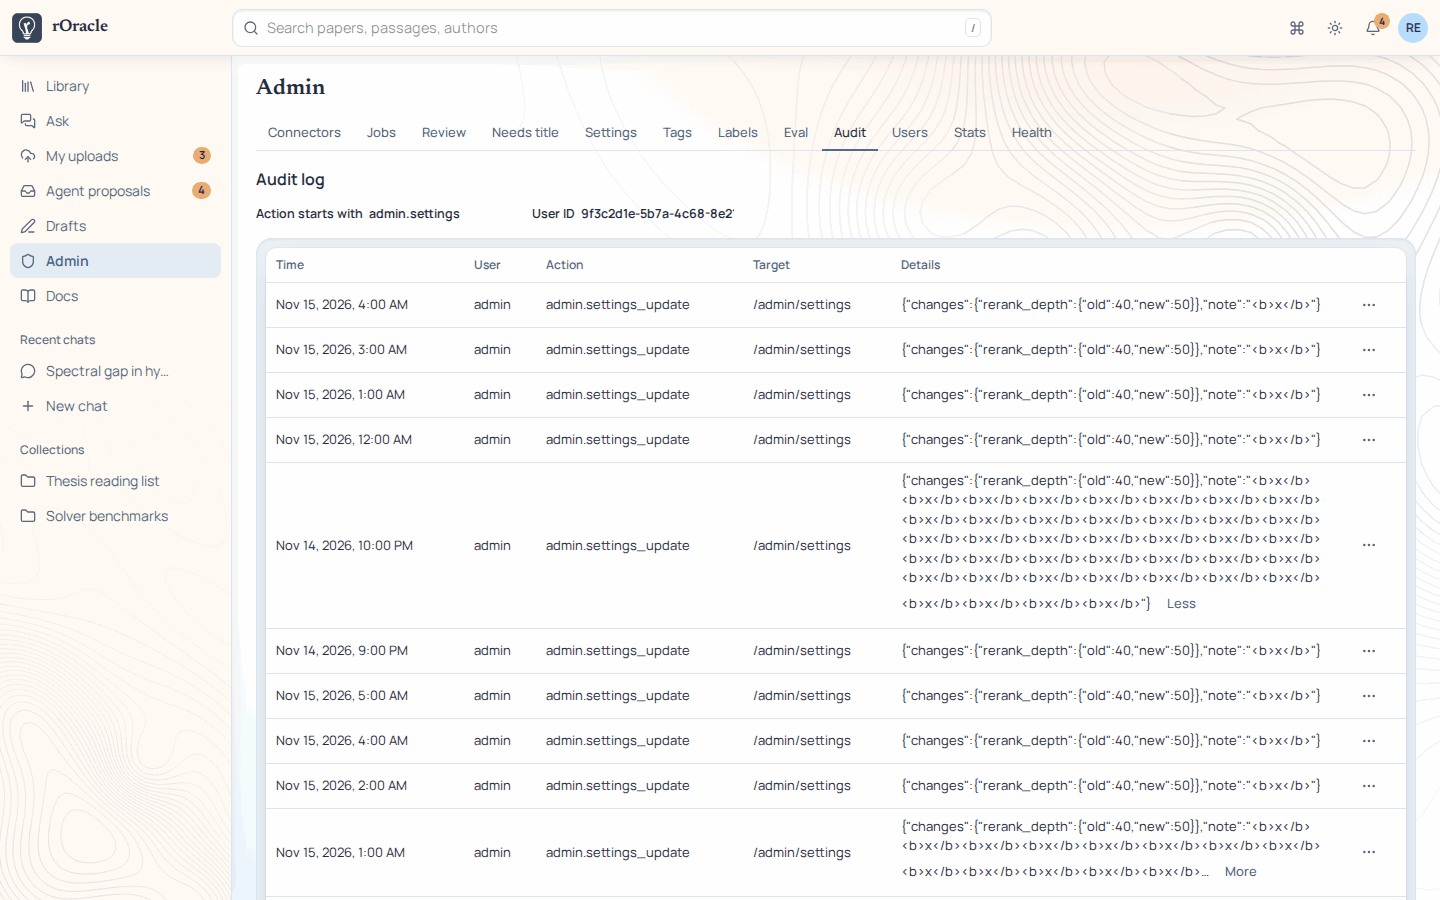
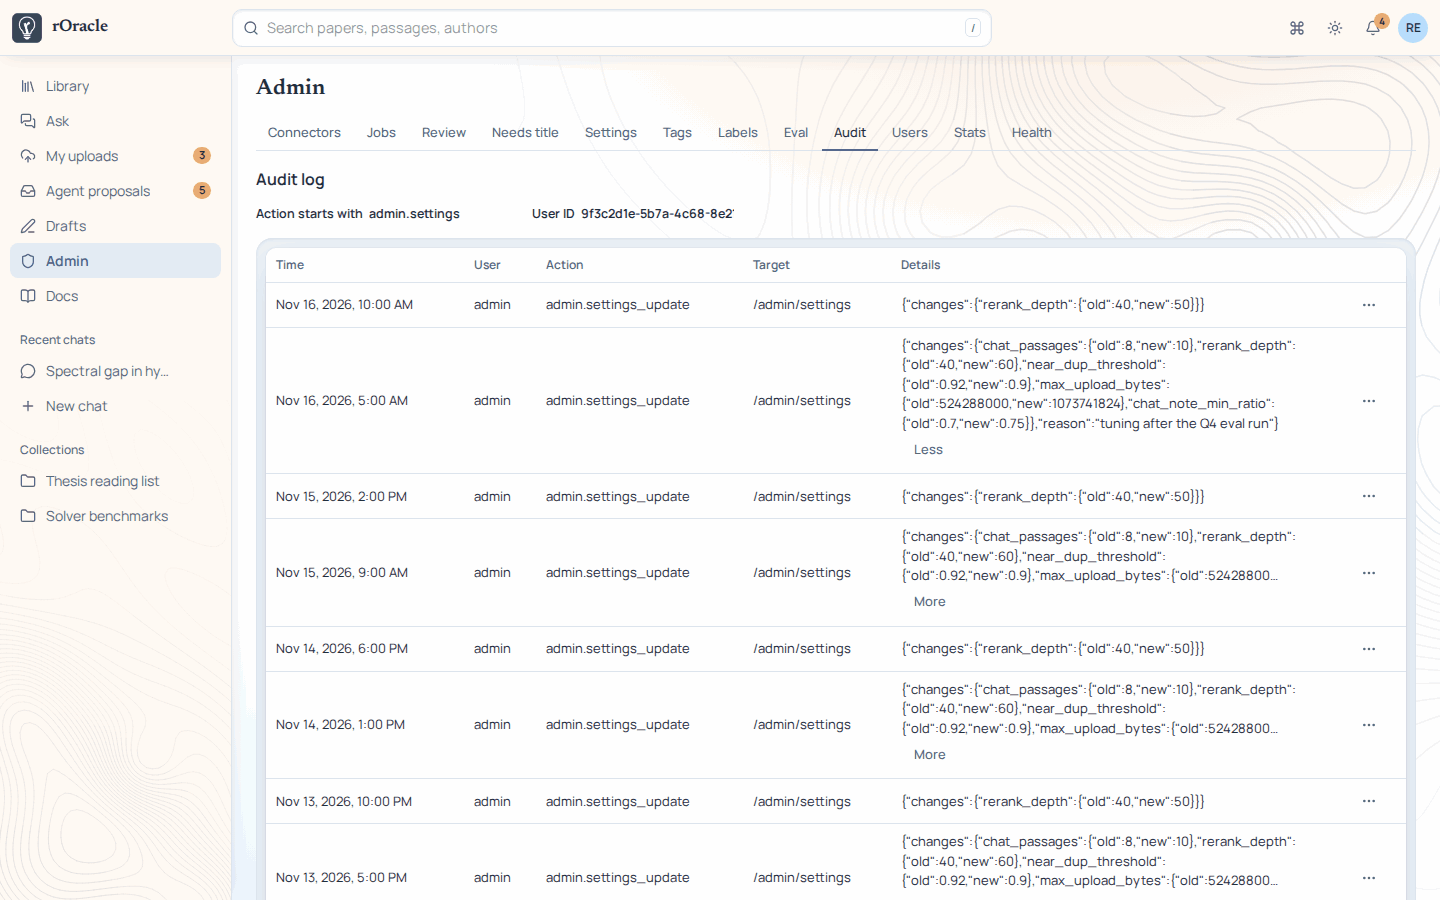
docs(screens): fix alt texts and audit, limits and form screenshots

diff --git a/frontend/src/mocks/docsFixtures.ts b/frontend/src/mocks/docsFixtures.ts
@@ -1,7 +1,7 @@
 // Extra demo rows for the documentation screenshots (scripts/docs/screenshots). Browser mock mode only:
 // mocks/browser.ts calls seedDocsFixtures() before the worker starts; the vitest server never does.
 import type { HandoffManifest } from "@/api/agents";
-import { dataOf } from "./adminData";
+import { dataOf, ENV } from "./adminData";
 import { tokens } from "./agents";
 import { all as proposals } from "./proposals";
 import { DOCS } from "./docs";
@@ -23,8 +23,19 @@ function handoff(code: string, title: string, o: Partial<HandoffManifest> = {}, 
 const ADMIN_UUID = "9f3c2d1e-5b7a-4c68-8e21-0a4d6b7c8e90";
 
 export function seedDocsFixtures() {
-  // the audit filter only accepts a UUID, the stock rows use "u-admin"
-  for (const a of dataOf().audit) a.user_id = ADMIN_UUID;
+  // the audit filter only accepts a UUID (stock rows use "u-admin"); also realistic, newest-first rows and the real rate-limit default
+  const rows: [string, string, unknown][] = [
+    ["admin.settings_update", "/admin/settings", { changes: { rerank_depth: { old: 40, new: 50 } } }],
+    ["admin.settings_update", "/admin/settings", { changes: { chat_passages: { old: 8, new: 10 }, rerank_depth: { old: 40, new: 60 }, near_dup_threshold: { old: 0.92, new: 0.9 }, max_upload_bytes: { old: 524288000, new: 1073741824 }, chat_note_min_ratio: { old: 0.7, new: 0.75 } }, reason: "tuning after the Q4 eval run" }],
+    ["admin.tags_merge", "pde", { merged: ["partial-differential-equations"], documents: 9 }],
+    ["admin.label_update", "Confidential", { changes: { block_export: { old: false, new: true } } }],
+  ];
+  dataOf().audit.forEach((a, i) => {
+    const [action, target, detail] = rows[i % rows.length];
+    // newest first: ids already fall with i, so the times must too
+    Object.assign(a, { user_id: ADMIN_UUID, at: new Date(Date.UTC(2026, 10, 16, 15) - i * 3_600_000 * 5).toISOString(), action, target, detail });
+  });
+  ENV.rate_limit_per_minute = 0; // config.py default: off
   tokens().push(
     { id: "tok-2", name: "Notebook agent", prefix: "ror_m8Zt", scopes: ["read", "write"], expires_at: iso(-2 * DAY), revoked_at: null, last_used_at: iso(-9 * DAY), created_at: iso(-40 * DAY) },
     { id: "tok-3", name: "CI helper", prefix: "ror_x4Nd", scopes: ["read"], expires_at: iso(30 * DAY), revoked_at: iso(-DAY), last_used_at: iso(-3 * DAY), created_at: iso(-20 * DAY) },

diff --git a/frontend/src/mocks/adminData.ts b/frontend/src/mocks/adminData.ts
@@ -7,7 +7,7 @@ const url = (p: string) => `${API_BASE}${p}`;
 const forbidden = () => HttpResponse.json({ detail: "admin only" }, { status: 403 });
 const MiB = 1024 * 1024;
 
-const ENV: Record<string, SettingValue> = {
+export const ENV: Record<string, SettingValue> = {
   chat_models: ["qwen2.5:14b", "llama3.1:8b"], chat_default_model: "qwen2.5:14b", chat_passages: 8, chat_note_min_upvotes: 2, chat_note_min_ratio: 0.7,
   rerank_depth: 40, near_dup_threshold: 0.92, near_dup_summary_threshold: 0.85, max_upload_bytes: 500 * MiB, upload_quota_bytes: 0, rate_limit_per_minute: 60, pats_enabled: true,
 };

diff --git a/docs/admin/users-groups.md b/docs/admin/users-groups.md
@@ -38,7 +38,7 @@ The terms are in the [glossary](../glossary.md#access).
 
 **Admin, Users** lists everyone who has signed in. A person who has never opened rOracle does not appear, and cannot be found by the pickers below either.
 
-![The Users table with the search box and the Groups list](../assets/screens/admin-users.png)
+![The Users table with the search box](../assets/screens/admin-users.png)
 
 - **Search users** matches the user name or the email.
 - The table shows the user, their groups (the first two, with the rest in a menu), whether they are an admin and their last sign-in, 20 users per page.

diff --git a/docs/user/labels.md b/docs/user/labels.md
@@ -34,7 +34,7 @@ For a note, the author and admins see the same pencil on the note. The same rule
 
 If someone else changes the label of your paper, you get a notification.
 
-![The Change label dialog with a lower label greyed out](../assets/screens/labels-change-dialog.png)
+![The Change label dialog for a non-admin, noting that lower labels can't be chosen](../assets/screens/labels-change-dialog.png)
 
 ## Asking for a lower label
 
